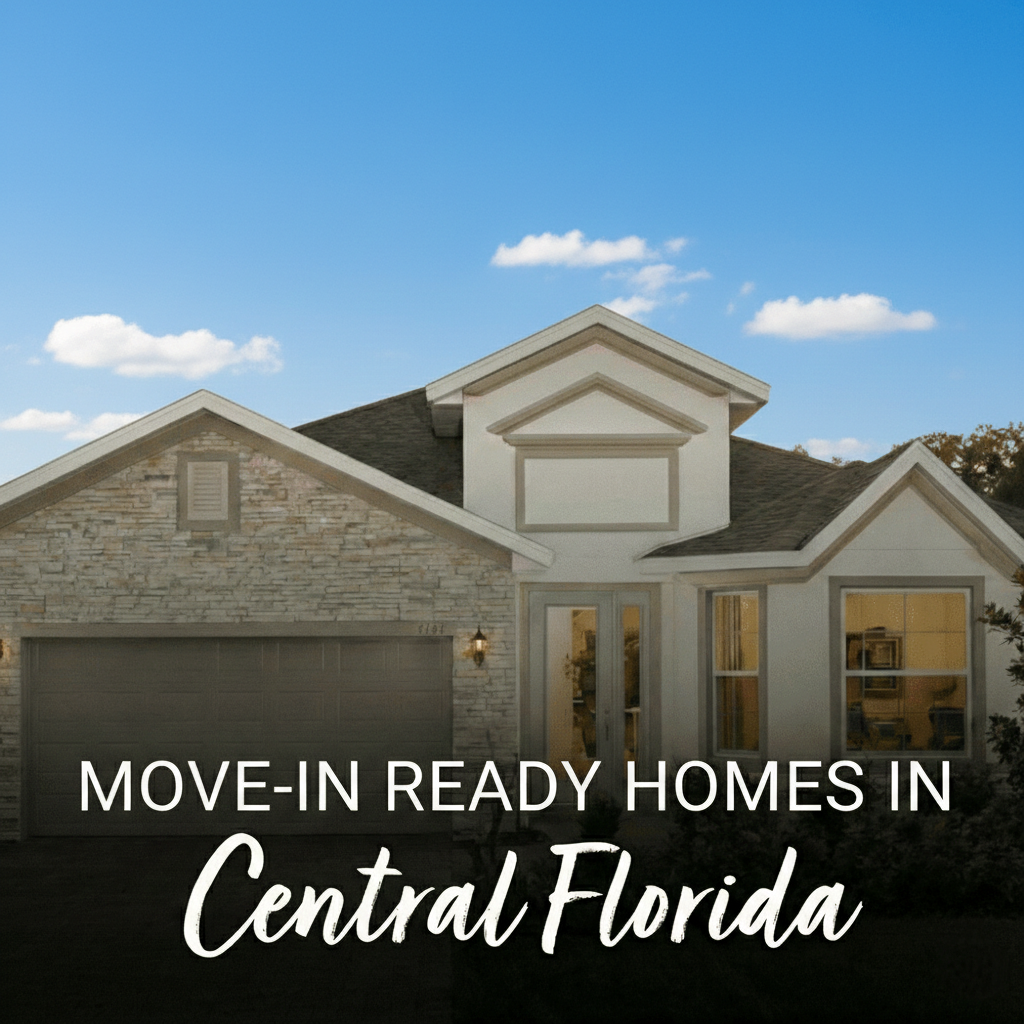
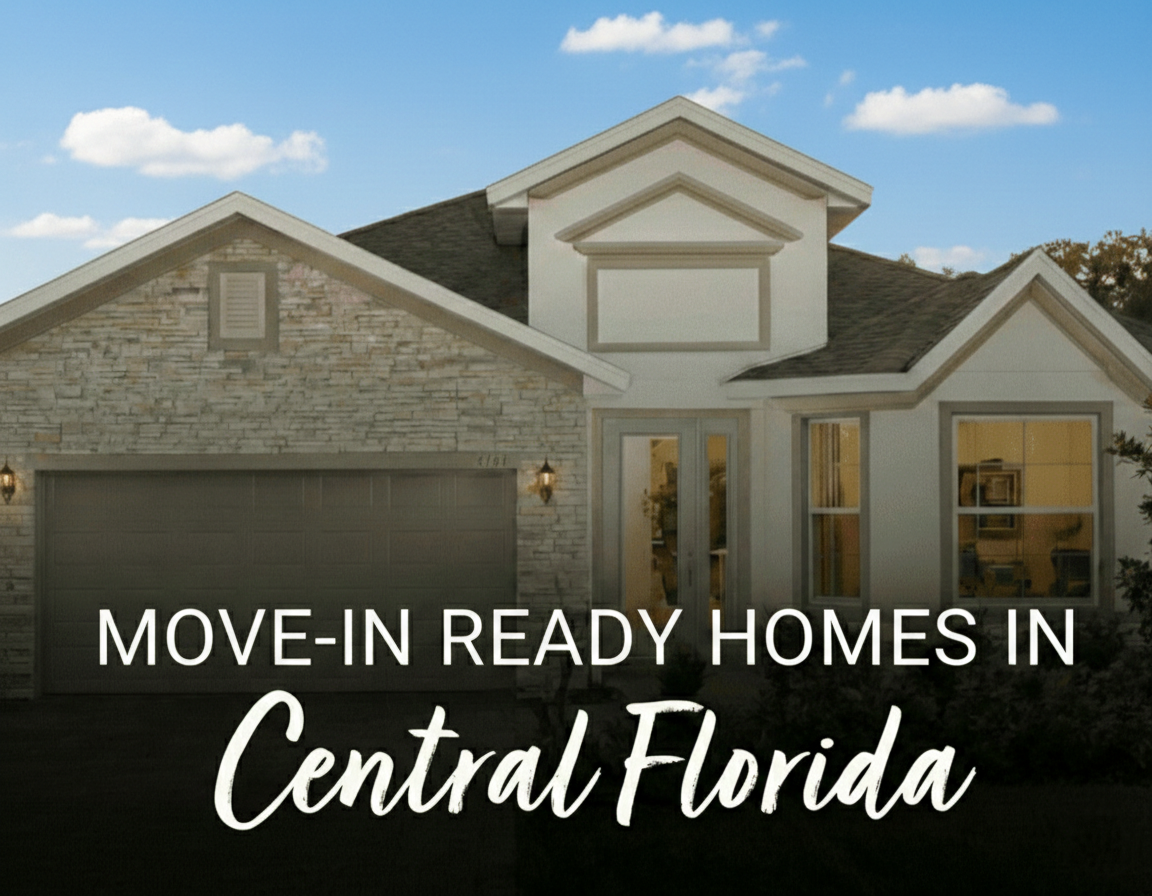
done

diff --git a/src/components/MlsSearchBox.tsx b/src/components/MlsSearchBox.tsx
@@ -1,6 +1,6 @@
 import { useState } from 'react';
 import { motion } from 'framer-motion';
-import { Search, MapPin, Home, DollarSign, Bed, Bath } from 'lucide-react';
+import { Search, MapPin, Home, DollarSign, Bed, Bath, Plus, Minus } from 'lucide-react';
 import { useNavigate } from 'react-router-dom';
 
 export const MlsSearchBox = () => {
@@ -49,15 +49,16 @@ export const MlsSearchBox = () => {
           {/* Price Range */}
           <div className="sm:col-span-1 lg:col-span-3 grid grid-cols-2 gap-2">
             <div className="relative">
-              <div className="absolute left-2 top-1/2 -translate-y-1/2 text-white/60">
-                <DollarSign className="w-3 h-3" />
-              </div>
               <select
                 value={searchParams.minPrice}
                 onChange={(e) => setSearchParams({ ...searchParams, minPrice: e.target.value })}
-                className="w-full bg-white/10 border border-white/20 rounded px-6 py-3 text-white text-sm focus:outline-none focus:border-accent/50 transition-colors appearance-none cursor-pointer h-[46px]"
+                className="w-full bg-white/10 border border-white/20 rounded px-3 py-3 text-white text-sm focus:outline-none focus:border-accent/50 focus:bg-white/15 transition-all appearance-none cursor-pointer h-[46px] flex items-center justify-center"
               >
-                <option value="" className="bg-gray-800">Min</option>
+                <option value="" className="bg-gray-800 flex items-center justify-center">
+                  <span className="flex items-center justify-center gap-2">
+                    <DollarSign className="w-5 h-5" />
+                  </span>
+                </option>
                 <option value="100000" className="bg-gray-800">$100k</option>
                 <option value="250000" className="bg-gray-800">$250k</option>
                 <option value="500000" className="bg-gray-800">$500k</option>
@@ -65,17 +66,24 @@ export const MlsSearchBox = () => {
                 <option value="1000000" className="bg-gray-800">$1M</option>
                 <option value="2000000" className="bg-gray-800">$2M+</option>
               </select>
+              {!searchParams.minPrice && (
+                <div className="absolute inset-0 flex items-center justify-center gap-1 pointer-events-none">
+                  <DollarSign className="w-5 h-5 text-white/80" />
+                  <Plus className="w-4 h-4 text-white/80" />
+                </div>
+              )}
             </div>
             <div className="relative">
-              <div className="absolute left-2 top-1/2 -translate-y-1/2 text-white/60">
-                <DollarSign className="w-3 h-3" />
-              </div>
               <select
                 value={searchParams.maxPrice}
                 onChange={(e) => setSearchParams({ ...searchParams, maxPrice: e.target.value })}
-                className="w-full bg-white/10 border border-white/20 rounded px-6 py-3 text-white text-sm focus:outline-none focus:border-accent/50 transition-colors appearance-none cursor-pointer h-[46px]"
+                className="w-full bg-white/10 border border-white/20 rounded px-3 py-3 text-white text-sm focus:outline-none focus:border-accent/50 focus:bg-white/15 transition-all appearance-none cursor-pointer h-[46px] flex items-center justify-center"
               >
-                <option value="" className="bg-gray-800">Max</option>
+                <option value="" className="bg-gray-800 flex items-center justify-center">
+                  <span className="flex items-center justify-center gap-2">
+                    <DollarSign className="w-5 h-5" />
+                  </span>
+                </option>
                 <option value="250000" className="bg-gray-800">$250k</option>
                 <option value="500000" className="bg-gray-800">$500k</option>
                 <option value="750000" className="bg-gray-800">$750k</option>
@@ -83,48 +91,69 @@ export const MlsSearchBox = () => {
                 <option value="2000000" className="bg-gray-800">$2M</option>
                 <option value="5000000" className="bg-gray-800">$5M+</option>
               </select>
+              {!searchParams.maxPrice && (
+                <div className="absolute inset-0 flex items-center justify-center gap-1 pointer-events-none">
+                  <DollarSign className="w-5 h-5 text-white/80" />
+                  <Minus className="w-4 h-4 text-white/80" />
+                </div>
+              )}
             </div>
           </div>
 
-          {/* Beds */}
-          <div className="sm:col-span-1 lg:col-span-2 relative">
-            <div className="absolute left-3 top-1/2 -translate-y-1/2 text-white/60">
-              <Bed className="w-4 h-4" />
+          {/* Beds & Baths */}
+          <div className="sm:col-span-1 lg:col-span-3 grid grid-cols-2 gap-2">
+            {/* Beds */}
+            <div className="relative">
+              <select
+                value={searchParams.beds}
+                onChange={(e) => setSearchParams({ ...searchParams, beds: e.target.value })}
+                className="w-full bg-white/10 border border-white/20 rounded px-3 py-3 text-white text-sm focus:outline-none focus:border-accent/50 focus:bg-white/15 transition-all appearance-none cursor-pointer h-[46px] flex items-center justify-center"
+              >
+                <option value="" className="bg-gray-800 flex items-center justify-center">
+                  <span className="flex items-center justify-center gap-2">
+                    <Bed className="w-5 h-5" />
+                  </span>
+                </option>
+                <option value="1" className="bg-gray-800">1+</option>
+                <option value="2" className="bg-gray-800">2+</option>
+                <option value="3" className="bg-gray-800">3+</option>
+                <option value="4" className="bg-gray-800">4+</option>
+                <option value="5" className="bg-gray-800">5+</option>
+              </select>
+              {!searchParams.beds && (
+                <div className="absolute inset-0 flex items-center justify-center pointer-events-none">
+                  <Bed className="w-5 h-5 text-white/80" />
+                </div>
+              )}
             </div>
-            <select
-              value={searchParams.beds}
-              onChange={(e) => setSearchParams({ ...searchParams, beds: e.target.value })}
-              className="w-full bg-white/10 border border-white/20 rounded px-10 py-3 text-white text-sm focus:outline-none focus:border-accent/50 transition-colors appearance-none cursor-pointer h-[46px]"
-            >
-              <option value="" className="bg-gray-800">Beds</option>
-              <option value="1" className="bg-gray-800">1+</option>
-              <option value="2" className="bg-gray-800">2+</option>
-              <option value="3" className="bg-gray-800">3+</option>
-              <option value="4" className="bg-gray-800">4+</option>
-              <option value="5" className="bg-gray-800">5+</option>
-            </select>
-          </div>
 
-          {/* Baths */}
-          <div className="sm:col-span-1 lg:col-span-2 relative">
-            <div className="absolute left-3 top-1/2 -translate-y-1/2 text-white/60">
-              <Bath className="w-4 h-4" />
+            {/* Baths */}
+            <div className="relative">
+              <select
+                value={searchParams.baths}
+                onChange={(e) => setSearchParams({ ...searchParams, baths: e.target.value })}
+                className="w-full bg-white/10 border border-white/20 rounded px-3 py-3 text-white text-sm focus:outline-none focus:border-accent/50 focus:bg-white/15 transition-all appearance-none cursor-pointer h-[46px] flex items-center justify-center"
+              >
+                <option value="" className="bg-gray-800 flex items-center justify-center">
+                  <span className="flex items-center justify-center gap-2">
+                    <Bath className="w-5 h-5" />
+                  </span>
+                </option>
+                <option value="1" className="bg-gray-800">1+</option>
+                <option value="2" className="bg-gray-800">2+</option>
+                <option value="3" className="bg-gray-800">3+</option>
+                <option value="4" className="bg-gray-800">4+</option>
+              </select>
+              {!searchParams.baths && (
+                <div className="absolute inset-0 flex items-center justify-center pointer-events-none">
+                  <Bath className="w-5 h-5 text-white/80" />
+                </div>
+              )}
             </div>
-            <select
-              value={searchParams.baths}
-              onChange={(e) => setSearchParams({ ...searchParams, baths: e.target.value })}
-              className="w-full bg-white/10 border border-white/20 rounded px-10 py-3 text-white text-sm focus:outline-none focus:border-accent/50 transition-colors appearance-none cursor-pointer h-[46px]"
-            >
-              <option value="" className="bg-gray-800">Baths</option>
-              <option value="1" className="bg-gray-800">1+</option>
-              <option value="2" className="bg-gray-800">2+</option>
-              <option value="3" className="bg-gray-800">3+</option>
-              <option value="4" className="bg-gray-800">4+</option>
-            </select>
           </div>
 
           {/* Search Button */}
-          <div className="sm:col-span-1 lg:col-span-1">
+          <div className="sm:col-span-1 lg:col-span-2">
             <button
               type="submit"
               className="w-full h-[46px] bg-accent hover:bg-gold-light text-white rounded flex items-center justify-center transition-colors duration-300"

diff --git a/src/components/HeroSection.tsx b/src/components/HeroSection.tsx
@@ -31,7 +31,9 @@ export const HeroSection = () => {
             {/* Subtitle with decorative line */}
             <div className="flex items-center justify-center gap-4 mb-4">
               <div className="h-px w-12 sm:w-16 bg-gradient-to-r from-transparent via-accent to-transparent" />
-              <span className="text-[10px] sm:text-xs tracking-[0.3em] uppercase text-accent font-sans">
+              <span className="text-[10px] sm:text-xs tracking-[0.3em] uppercase text-accent font-sans"
+                style={{ textShadow: '0 2px 20px rgba(0, 0, 0, 0.8)' }}
+              >
                 Luxury Real Estate
               </span>
               <div className="h-px w-12 sm:w-16 bg-gradient-to-r from-transparent via-accent to-transparent" />
@@ -39,16 +41,16 @@ export const HeroSection = () => {
 
             {/* Main Heading */}
             <h1 className="font-serif text-2xl sm:text-3xl md:text-4xl lg:text-5xl xl:text-6xl text-white font-normal tracking-tight leading-tight"
-              style={{ textShadow: '0 4px 30px rgba(0, 0, 0, 0.4)' }}
+              style={{ textShadow: '0 4px 40px rgba(0, 0, 0, 0.9)' }}
             >
-              Orlando & Central Florida's
+              <span className="text-[#FFD700]">Orlando & Central Florida's</span>
               <br />
-              <span className="text-accent">Trusted Real Estate Experts</span>
+              <span className="text-white">Real Estate Experts</span>
             </h1>
 
             {/* Description */}
             <p className="mt-4 sm:mt-6 font-sans text-sm sm:text-base md:text-lg text-white/90 leading-relaxed max-w-2xl mx-auto"
-              style={{ textShadow: '0 2px 20px rgba(0, 0, 0, 0.3)' }}
+              style={{ textShadow: '0 2px 30px rgba(0, 0, 0, 0.8)' }}
             >
               With 35+ years of experience, Real Estate 360 delivers exceptional results 
               for buyers, sellers, and investors throughout Central Florida.
@@ -56,7 +58,7 @@ export const HeroSection = () => {
 
             {/* CTA Heading */}
             <h2 className="font-serif text-lg sm:text-xl md:text-2xl lg:text-3xl text-white font-normal tracking-wide mt-6 sm:mt-8"
-              style={{ textShadow: '0 2px 20px rgba(0, 0, 0, 0.3)' }}
+              style={{ textShadow: '0 2px 30px rgba(0, 0, 0, 0.8)' }}
             >
               Find Your Dream Home
             </h2>

diff --git a/src/components/ForbesSection.tsx b/src/components/ForbesSection.tsx
@@ -28,7 +28,7 @@ export const ForbesSection = () => {
               <img 
                 src="/image.png" 
                 alt="Real Estate 360" 
-                className="w-full h-[450px] sm:h-[550px] md:h-[650px] object-cover"
+                className="w-full h-auto object-contain"
               />
             </div>
           </div>
